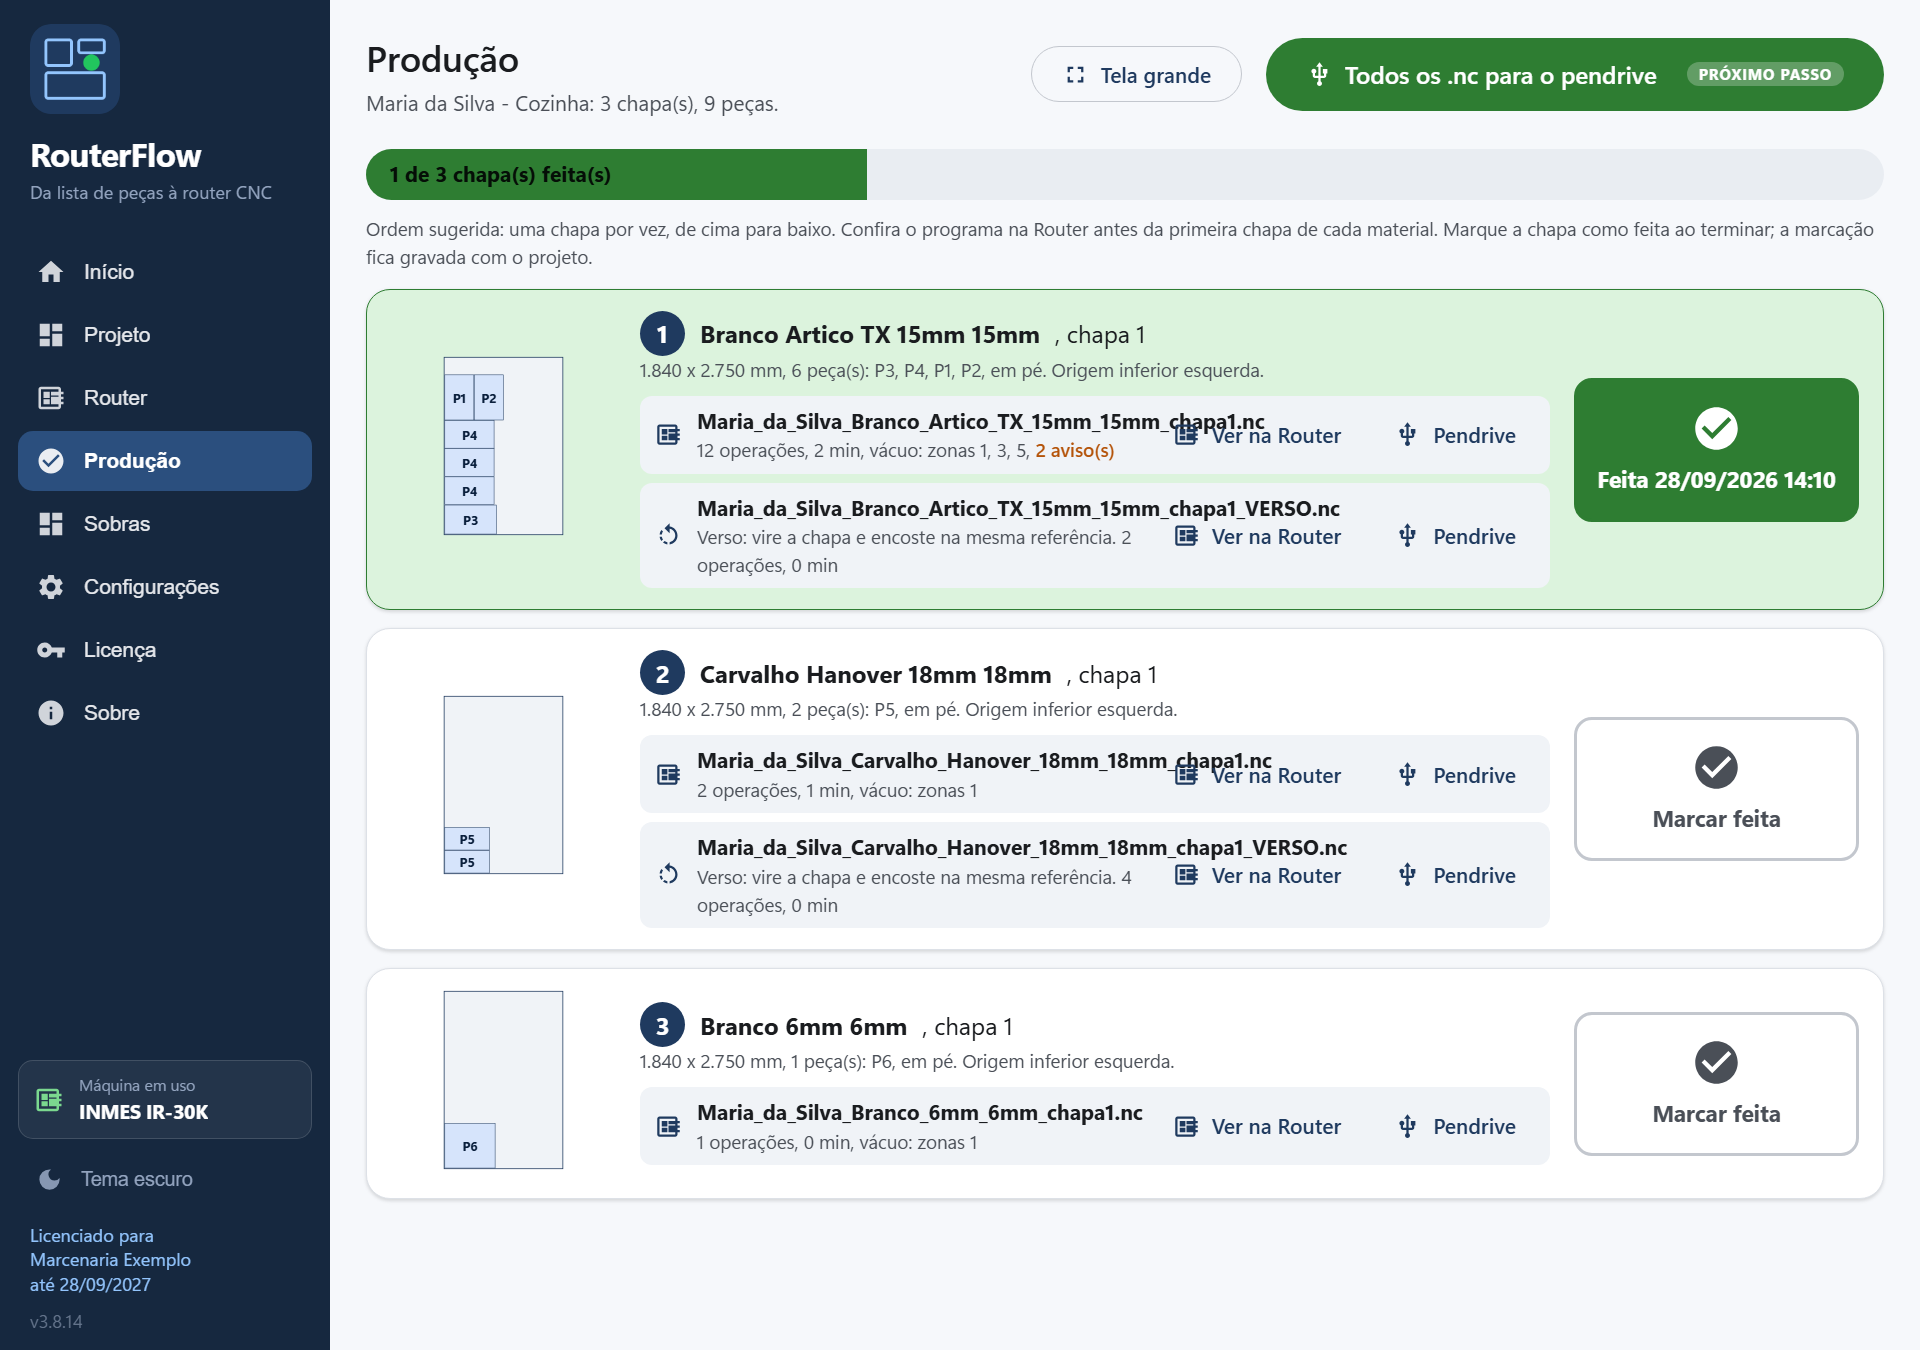
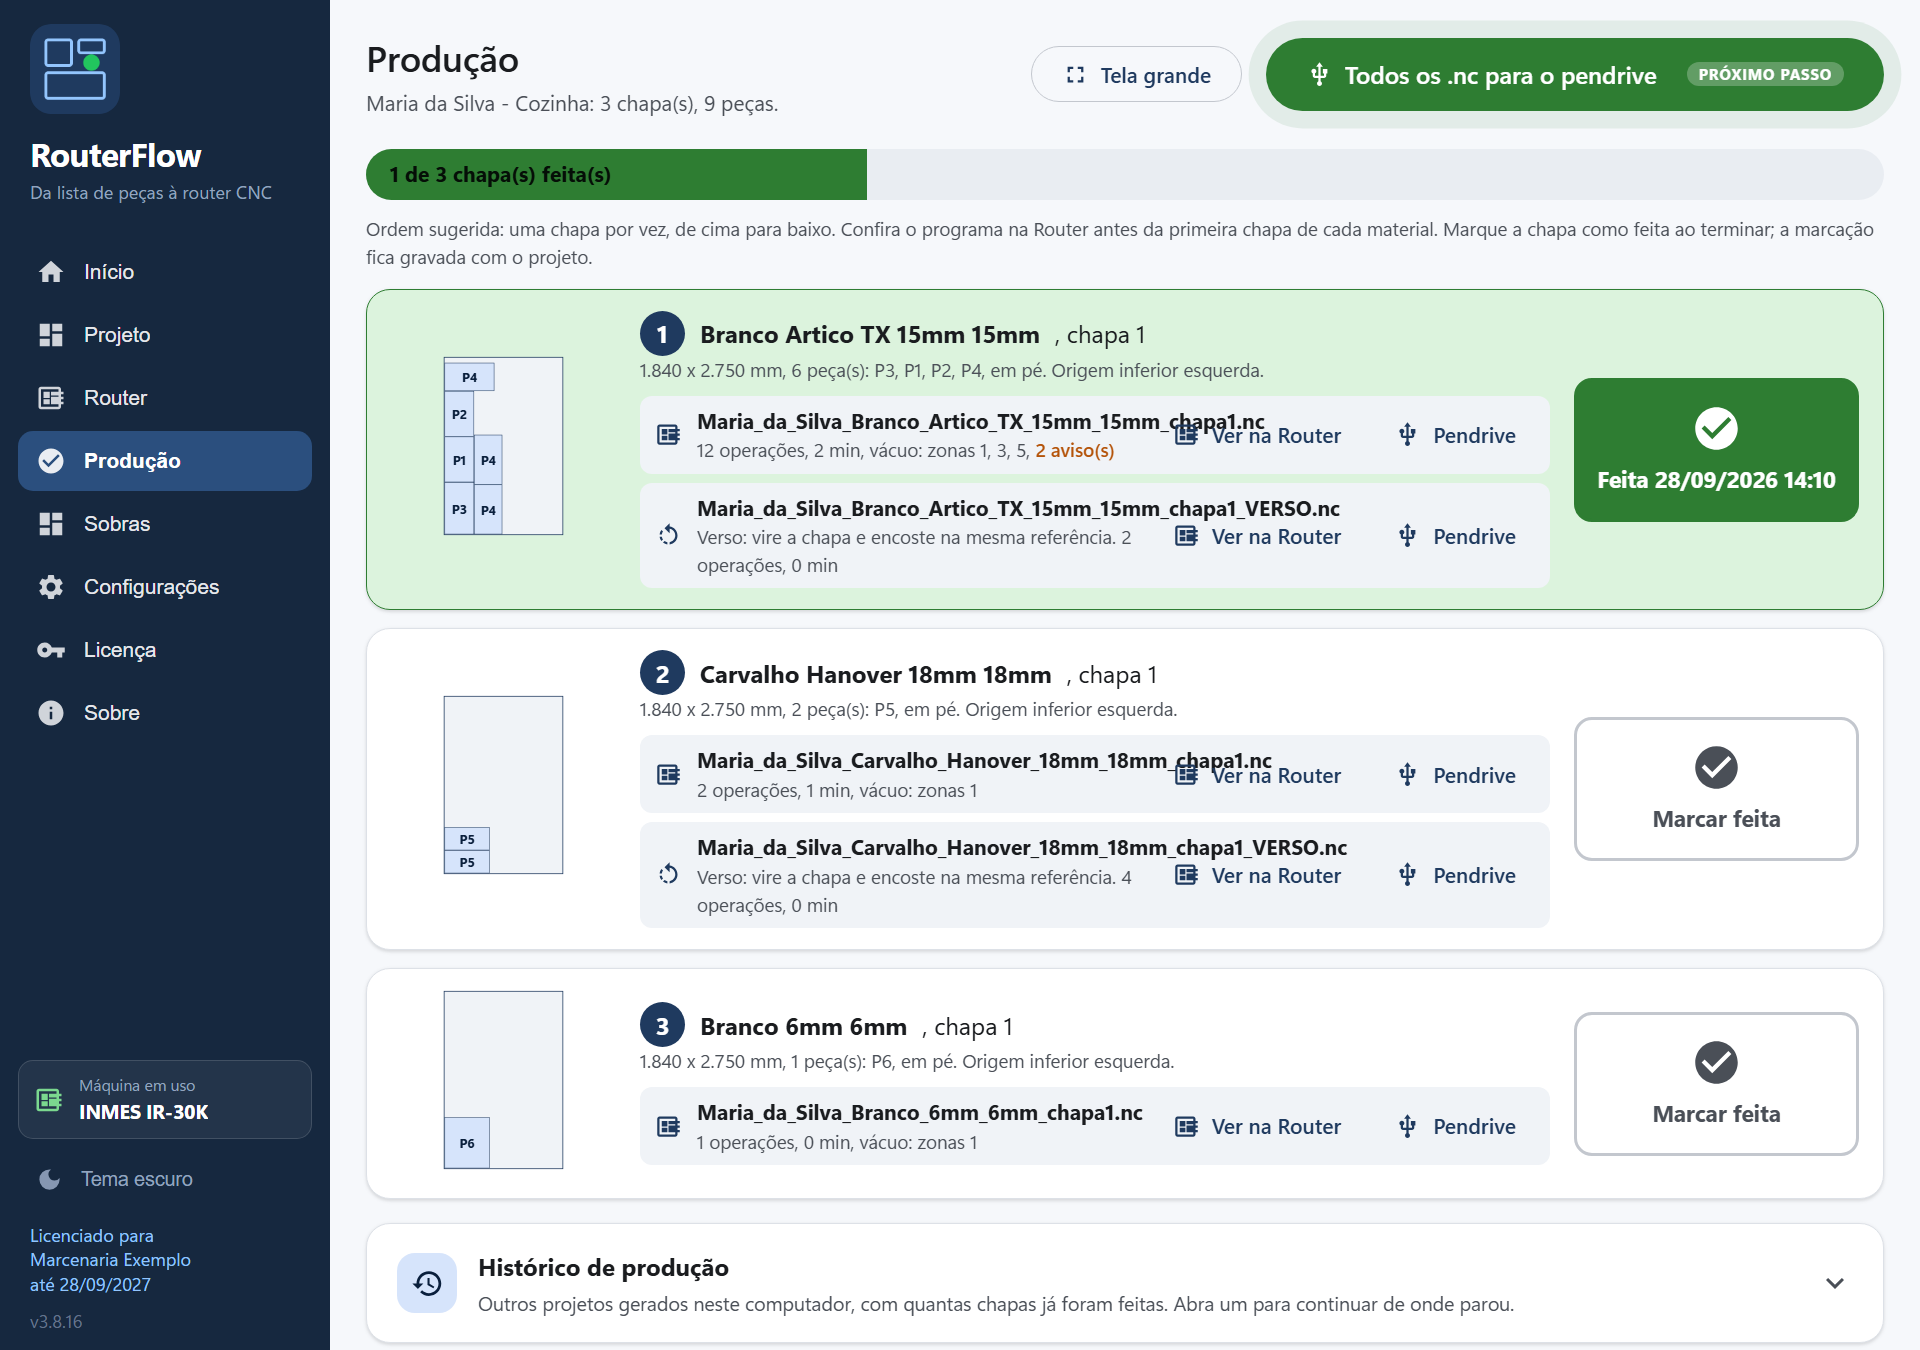
Site: novidades 3.8.17, manual com o historico da Producao

diff --git a/manual.html b/manual.html
@@ -59,11 +59,11 @@ code { background: var(--surface-low); padding: 1px 6px; border-radius: 6px; fon
   </nav>
 </header>
 <main class="man-wrap">
-  <aside class="man-toc" id="man-toc"><b>Neste manual</b><ul><li class="l2"><a href="#instalar-e-ativar">Instalar e ativar</a></li><li class="l2"><a href="#a-tela-início">A tela Início</a></li><li class="l2"><a href="#antes-do-primeiro-projeto-configurar-a-máquina">Antes do primeiro projeto: configurar a máquina</a><ul><li class="l3"><a href="#perfis-de-máquina">Perfis de máquina</a></li><li class="l3"><a href="#pós-processador">Pós-processador</a></li><li class="l3"><a href="#ferramentas">Ferramentas</a></li><li class="l3"><a href="#ferramenta-de-cada-etapa">Ferramenta de cada etapa</a></li><li class="l3"><a href="#corte-alturas-rampa-e-abas">Corte: alturas, rampa e abas</a></li><li class="l3"><a href="#sua-router-mesa-vácuo-e-códigos-m">Sua router: mesa, vácuo e códigos M</a></li><li class="l3"><a href="#chapas-e-folgas">Chapas e folgas</a></li><li class="l3"><a href="#leitura-do-arquivo-do-projeto-csv">Leitura do arquivo do projeto (CSV)</a></li><li class="l3"><a href="#avançado-como-o-programa-é-escrito">Avançado: como o programa é escrito</a></li><li class="l3"><a href="#cópia-de-segurança-da-configuração">Cópia de segurança da configuração</a></li></ul></li><li class="l2"><a href="#projeto-da-lista-de-peças-às-chapas">Projeto: da lista de peças às chapas</a><ul><li class="l3"><a href="#etapa-1-arquivos">Etapa 1: arquivos</a></li><li class="l3"><a href="#etapa-2-chapa-e-máquina">Etapa 2: chapa e máquina</a></li><li class="l3"><a href="#etapa-3-gerar-chapas">Etapa 3: gerar chapas</a></li><li class="l3"><a href="#etapa-4-ajustar-no-editor-de-chapas">Etapa 4: ajustar no editor de chapas</a></li><li class="l3"><a href="#histórico">Histórico</a></li></ul></li><li class="l2"><a href="#router-conferir-o-programa-antes-de-cortar">Router: conferir o programa antes de cortar</a></li><li class="l2"><a href="#produção-cortar-chapa-a-chapa">Produção: cortar chapa a chapa</a></li><li class="l2"><a href="#sobras-o-estoque-de-retalhos">Sobras: o estoque de retalhos</a></li><li class="l2"><a href="#impressos">Impressos</a></li><li class="l2"><a href="#licença-e-atualização">Licença e atualização</a></li><li class="l2"><a href="#problemas-comuns-e-avisos">Problemas comuns e avisos</a></li><li class="l2"><a href="#atalhos-e-dicas">Atalhos e dicas</a></li></ul></aside>
+  <aside class="man-toc" id="man-toc"><b>Neste manual</b><ul><li class="l2"><a href="#instalar-e-ativar">Instalar e ativar</a></li><li class="l2"><a href="#a-tela-início">A tela Início</a></li><li class="l2"><a href="#antes-do-primeiro-projeto-configurar-a-máquina">Antes do primeiro projeto: configurar a máquina</a><ul><li class="l3"><a href="#perfis-de-máquina">Perfis de máquina</a></li><li class="l3"><a href="#pós-processador">Pós-processador</a></li><li class="l3"><a href="#ferramentas">Ferramentas</a></li><li class="l3"><a href="#ferramenta-de-cada-etapa">Ferramenta de cada etapa</a></li><li class="l3"><a href="#corte-alturas-rampa-e-abas">Corte: alturas, rampa e abas</a></li><li class="l3"><a href="#sua-router-mesa-vácuo-e-códigos-m">Sua router: mesa, vácuo e códigos M</a></li><li class="l3"><a href="#chapas-e-folgas">Chapas e folgas</a></li><li class="l3"><a href="#leitura-do-arquivo-do-projeto-csv">Leitura do arquivo do projeto (CSV)</a></li><li class="l3"><a href="#avançado-como-o-programa-é-escrito">Avançado: como o programa é escrito</a></li><li class="l3"><a href="#cópia-de-segurança-da-configuração">Cópia de segurança da configuração</a></li></ul></li><li class="l2"><a href="#projeto-da-lista-de-peças-às-chapas">Projeto: da lista de peças às chapas</a><ul><li class="l3"><a href="#etapa-1-arquivos">Etapa 1: arquivos</a></li><li class="l3"><a href="#etapa-2-chapa-e-máquina">Etapa 2: chapa e máquina</a></li><li class="l3"><a href="#etapa-3-gerar-chapas">Etapa 3: gerar chapas</a></li><li class="l3"><a href="#etapa-4-ajustar-no-editor-de-chapas">Etapa 4: ajustar no editor de chapas</a></li><li class="l3"><a href="#histórico-e-avisos">Histórico e avisos</a></li></ul></li><li class="l2"><a href="#router-conferir-o-programa-antes-de-cortar">Router: conferir o programa antes de cortar</a></li><li class="l2"><a href="#produção-cortar-chapa-a-chapa">Produção: cortar chapa a chapa</a></li><li class="l2"><a href="#sobras-o-estoque-de-retalhos">Sobras: o estoque de retalhos</a></li><li class="l2"><a href="#impressos">Impressos</a></li><li class="l2"><a href="#licença-e-atualização">Licença e atualização</a></li><li class="l2"><a href="#problemas-comuns-e-avisos">Problemas comuns e avisos</a></li><li class="l2"><a href="#atalhos-e-dicas">Atalhos e dicas</a></li></ul></aside>
   <article class="man-body">
   <div class="man-here" id="man-here"><a href="#man-toc" style="color:inherit;text-decoration:none">Você está em: <b id="man-here-t"></b></a></div>
 <h1 id="manual-do-routerflow-uso-e-configuração">Manual do RouterFlow: uso e configuração</h1>
-<p>Este manual mostra, tela por tela, como usar o RouterFlow desde a instalação até a chapa cortada, e explica cada campo das configurações: o que ele faz, quando mexer e qual valor usar. Ele vale para a versão 3.8.16 em diante.</p>
+<p>Este manual mostra, tela por tela, como usar o RouterFlow desde a instalação até a chapa cortada, e explica cada campo das configurações: o que ele faz, quando mexer e qual valor usar. Ele vale para a versão 3.8.17 em diante.</p>
 <p>O caminho no programa é sempre o mesmo, e o menu da esquerda segue essa ordem: <b>Projeto</b> (escolher os CSV e gerar as chapas), <b>Router</b> (conferir o programa antes de cortar), <b>Produção</b> (cortar chapa a chapa) e <b>Sobras</b> (o que ficou e volta para o estoque). Antes do primeiro projeto, vale gastar dez minutos em <b>Configurações</b> para o programa sair do jeito da sua máquina.</p>
 <p>Em cada tela, o botão da próxima etapa aparece maior, com a marca "PRÓXIMO PASSO" e a borda pulsando. Se estiver em dúvida sobre o que fazer, procure esse botão.</p>
 <h2 id="instalar-e-ativar">Instalar e ativar</h2>
@@ -220,9 +220,9 @@ code { background: var(--surface-low); padding: 1px 6px; border-radius: 6px; fon
 <div class='tbl'><table class='man'><thead><tr><th>Grupo</th><th>Botão</th><th>O que faz</th></tr></thead><tbody><tr><td>Peça selecionada</td><td><b>Girar 90°</b></td><td>Gira a peça selecionada. Peça com veio avisa se o veio vai sair errado</td></tr><tr><td></td><td><b>Desfazer</b></td><td>Volta o último movimento</td></tr><tr><td></td><td><b>outra chapa</b> e <b>Mover</b></td><td>Leva a peça para a chapa escolhida na lista</td></tr><tr><td>Chapas</td><td><b>Nova chapa</b></td><td>Abre uma chapa vazia do mesmo material</td></tr><tr><td></td><td><b>Excluir chapa</b></td><td>Remove a chapa (só vazia)</td></tr><tr><td></td><td><b>Marcar área com defeito</b></td><td>Cria um retângulo vermelho (nó, lasca, borda batida); arraste até o lugar e ajuste o tamanho. Nenhuma peça entra ali</td></tr><tr><td></td><td><b>Afastar peças na folga</b></td><td>Empurra as peças mais perto que a folga até a folga certa, sem sair da chapa</td></tr><tr><td></td><td><b>Nesting automático</b></td><td>Refaz o encaixe de todas as chapas, desviando das áreas com defeito. Descarta as alterações à mão</td></tr><tr><td>Finalizar</td><td><b>Furos, Rasgos, Contornos</b></td><td>Marque para gerar, além do programa completo, um programa só com aquela operação</td></tr><tr><td></td><td><b>Aplicar e regravar</b></td><td>Regrava DXF, programas, mapa, etiquetas e ficha com as alterações. Fica como próximo passo quando você mexeu</td></tr><tr><td></td><td><b>Abrir .nc na Router</b></td><td>Regrava e já abre o programa desta chapa na Router</td></tr></tbody></table></div>
 <p>Arrastar uma peça: clique nela e arraste. Ao soltar perto de outra, o encaixe mantém a folga sozinho. Peças sobrepostas ficam vermelhas e não deixam regravar; peças mais perto que a folga ficam laranja e são afastadas sozinhas ao regravar.</p>
 <p>Quando "Mostrar a sobra" está marcado, o maior retalho de cada chapa aparece tracejado em verde, com três escolhas no painel: <b>Cortar e guardar</b> (etiqueta e estoque), <b>Cortar e descartar</b> (só corta) ou <b>Deixar na chapa</b>.</p>
-<p>Abaixo do editor, os <b>avisos</b> do projeto: cada um explica o que aconteceu, o que fazer e tem um botão que leva ao lugar certo (uma configuração, o editor ou a ficha).</p>
-<h3 id="histórico">Histórico</h3>
-<p>No fim da tela Projeto, "Histórico de projetos" lista tudo o que já foi gerado neste computador, com data, chapas e peças. Reabra para ajustar ou regravar.</p>
+<h3 id="histórico-e-avisos">Histórico e avisos</h3>
+<p>Abaixo do resultado, "Histórico de projetos" lista tudo o que já foi gerado neste computador, com data, chapas e peças. Reabra para ajustar ou regravar.</p>
+<p>Por último vêm os <b>avisos</b> do projeto, quando existem: cada um explica o que aconteceu, o que fazer e tem um botão que leva ao lugar certo (uma configuração, o editor ou a ficha).</p>
 <h2 id="router-conferir-o-programa-antes-de-cortar">Router: conferir o programa antes de cortar</h2>
 <figure class="shot"><img class="zoom" src="img/manual/router.png" alt="Router: lista de programas, desenho do percurso sobre a mesa com as zonas de vácuo, e o painel Passo a passo" loading="lazy"><figcaption>Router: lista de programas, desenho do percurso sobre a mesa com as zonas de vácuo, e o painel Passo a passo</figcaption></figure>
 <p>A Router abre sozinha no programa completo da primeira chapa quando você vem do projeto. <b>Abrir outro .nc</b> carrega qualquer programa, inclusive de outra origem (Aspire, por exemplo), para conferir. O botão <b>Ir para a Produção</b> é o próximo passo.</p>
@@ -250,6 +250,8 @@ code { background: var(--surface-low); padding: 1px 6px; border-radius: 6px; fon
 <li><b>Marcar feita</b> registra a chapa cortada; a barra de progresso e a data ficam gravadas com o projeto, então dá para fechar e continuar no dia seguinte.</li>
 <li><b>Tela grande</b> aumenta tudo para ler de longe.</li>
 </ul>
+<figure class="shot"><img class="zoom" src="img/manual/producao-historico.png" alt="Produção sem projeto aberto: a lista dos projetos gerados com quantas chapas já foram feitas e o botão Abrir na Produção" loading="lazy"><figcaption>Produção sem projeto aberto: a lista dos projetos gerados com quantas chapas já foram feitas e o botão Abrir na Produção</figcaption></figure>
+<p>A Produção tem o seu próprio histórico. Sem projeto aberto, a tela mostra todos os projetos gerados neste computador com o andamento (chapas feitas de quantas, e a situação: não iniciado, em andamento ou concluído). <b>Abrir na Produção</b> carrega o projeto direto nessa tela, sem passar pelo Projeto: é o caminho de quem chega na máquina de manhã e continua de onde parou. Com um projeto aberto, o mesmo histórico fica no fim da tela, em "Histórico de produção".</p>
 <h2 id="sobras-o-estoque-de-retalhos">Sobras: o estoque de retalhos</h2>
 <figure class="shot"><img class="zoom" src="img/manual/sobras.png" alt="Sobras: números do estoque, filtros de busca, a lista com material, medidas, área e situação, e o cadastro manual" loading="lazy"><figcaption>Sobras: números do estoque, filtros de busca, a lista com material, medidas, área e situação, e o cadastro manual</figcaption></figure>
 <p>As sobras entram sozinhas quando um projeto é gerado com "Cortar e guardar": a router corta o retalho, sai a etiqueta "SOBRA" e ele fica disponível. No projeto seguinte, com "Usar as sobras do estoque" marcado, o nesting encaixa nelas antes de abrir chapa inteira; a sobra usada fica reservada àquele projeto.</p>

diff --git a/index.html b/index.html
@@ -287,7 +287,8 @@
   <p class="sub">O que chegou em cada atualização, da mais nova para a mais antiga. Quem já tem o RouterFlow recebe tudo isso sozinho.</p>
   <div class="news-list">
     <!-- novidades:inicio -->
-    <details open><summary><b>Versão 3.8.16</b><span class="news-t">Tela Projeto mais limpa depois de gerar</span><span class="news-d">29/09/2026</span></summary><ul><li>Gerou as chapas? As etapas 1 e 2 se recolhem numa linha só: arquivos, máquina, orientação, origem e opções. Quer mudar algo? Clique em &quot;Editar e gerar de novo&quot; e tudo abre outra vez.</li><li>As listas de arquivos DXF e de programas .nc saíram do resultado. Uma linha diz quantos foram gravados e onde. Os programas continuam na Router (conferir) e na Produção (pendrive e chapa feita), que é onde você usa eles.</li></ul></details>
+    <details open><summary><b>Versão 3.8.17</b><span class="news-t">Produção com histórico: continue de onde parou</span><span class="news-d">29/09/2026</span></summary><ul><li>A tela Produção agora lista os projetos gerados neste computador com o andamento de cada um: quantas chapas já foram feitas e se está concluído, em andamento ou nem começou. &quot;Abrir na Produção&quot; carrega o projeto ali mesmo, sem passar pelo Projeto.</li><li>Na tela Projeto, o histórico passou a vir antes dos avisos.</li></ul></details>
+    <details><summary><b>Versão 3.8.16</b><span class="news-t">Tela Projeto mais limpa depois de gerar</span><span class="news-d">29/09/2026</span></summary><ul><li>Gerou as chapas? As etapas 1 e 2 se recolhem numa linha só: arquivos, máquina, orientação, origem e opções. Quer mudar algo? Clique em &quot;Editar e gerar de novo&quot; e tudo abre outra vez.</li><li>As listas de arquivos DXF e de programas .nc saíram do resultado. Uma linha diz quantos foram gravados e onde. Os programas continuam na Router (conferir) e na Produção (pendrive e chapa feita), que é onde você usa eles.</li></ul></details>
     <details><summary><b>Versão 3.8.15</b><span class="news-t">Encaixe em faixa: a chapa rende mais e a sobra fica inteira</span><span class="news-d">29/09/2026</span></summary><ul><li>As peças agora enchem uma faixa ao longo do lado comprido da chapa antes de alargar: peça só vai para a fileira seguinte quando não cabe mais na atual. O que sobra é uma tira inteira, de ponta a ponta.</li><li>Peça sem veio gira 90 graus quando é assim que ela cabe no fim da fileira. A orientação Em pé ou Deitadas continua valendo, mas não custa mais espaço na chapa.</li><li>Entre as estratégias de encaixe, fica a que ocupa a faixa mais estreita. Vale para cada chapa, para o Nesting automático do editor e para &quot;Unir tudo numa chapa só&quot;.</li></ul></details>
     <details><summary><b>Versão 3.8.14</b><span class="news-t">Padrão de fábrica: corte de uma vez, como na máquina</span><span class="news-d">29/09/2026</span></summary><ul><li>Máquina nova já nasce cortando como a router faz de verdade: uma passada só até 0,1 mm na mesa (passe 20), rampa curta de 5 mm, sem abas, altura segura 15, fresa de 6 mm a 11000 de avanço e 4000 de mergulho.</li><li>Quem já tem máquina cadastrada não muda nada sozinho: os valores de Ferramentas e Corte continuam os seus. Para adotar os novos, ajuste em Configurações ou use Restaurar padrões.</li></ul></details>
     <details><summary><b>Versão 3.8.13</b><span class="news-t">Corte passante igual ao do Aspire</span><span class="news-d">29/09/2026</span></summary><ul><li>O corte que atravessa a chapa passou a entrar 0,1 mm na mesa, como o Aspire faz (chapa de 15 mm corta a 15,1). Antes eram 0,3 mm. Quem já ajustou &quot;Entrada na mesa&quot; em Configurações, Corte, continua com o seu valor.</li><li>Modelo novo de pós-processador &quot;INMES IR-30K, programa real&quot;, copiado de um programa que rodou na máquina: sem numeração de linha. O modelo antigo, tirado do .pp do Aspire, continua disponível.</li></ul></details>
